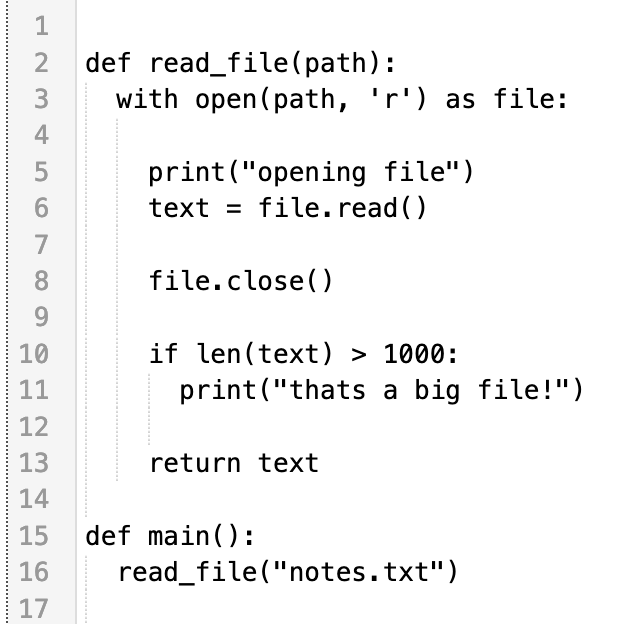
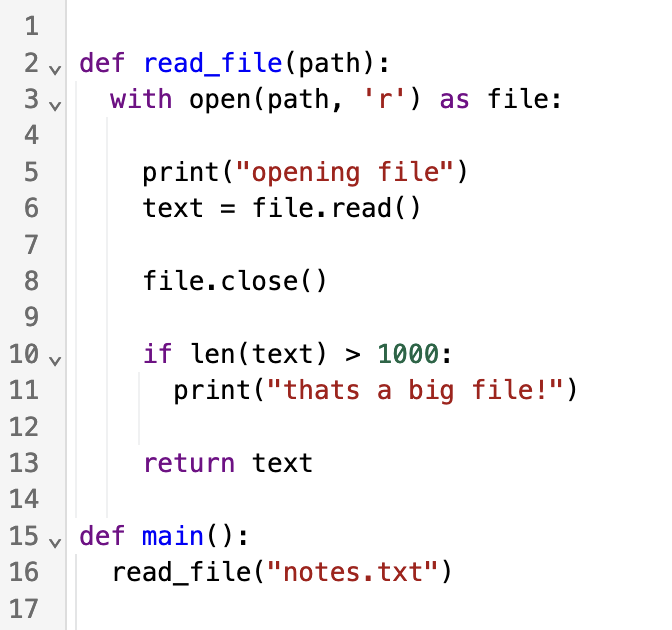
Update README and screenshot

diff --git a/README.md b/README.md
@@ -33,15 +33,3 @@ new EditorView({
 });
 
 ```
-
-### Styling
-To override the default styling of the indentation markers, simply create a theme plugin that targets the `.cm-indentation-marker` class:
-
-```ts
-const myCustomIndentationMarkerTheme = EditorView.baseTheme({
-  '.cm-indentation-marker': {
-    // Note: You may have to add `!important` to overwrite the extension's base theme.
-    background: '... !important',
-  },
-});
-```
